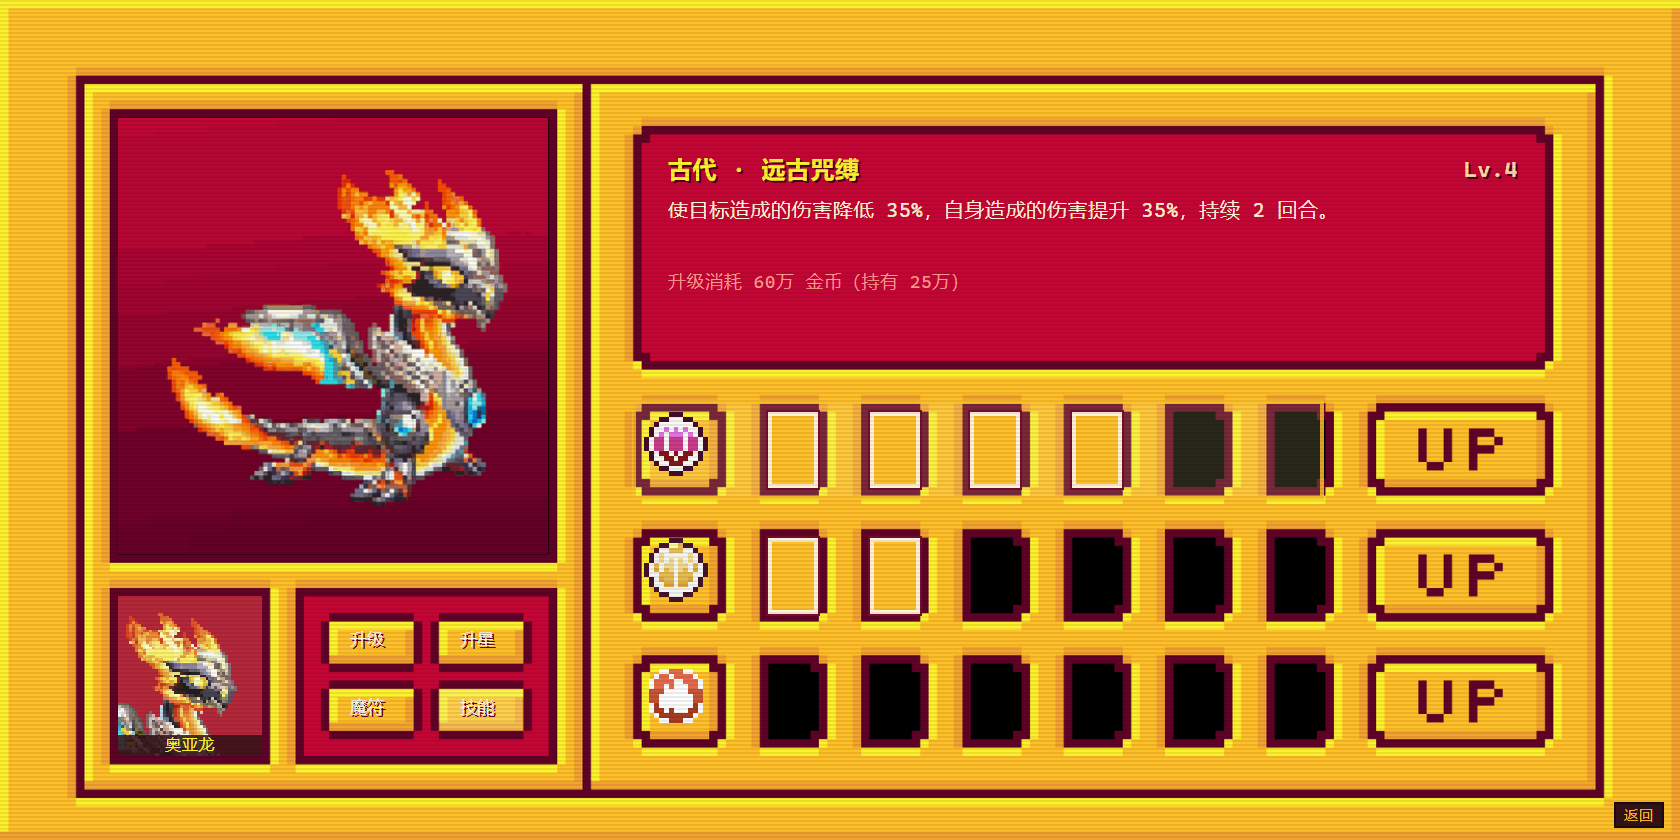
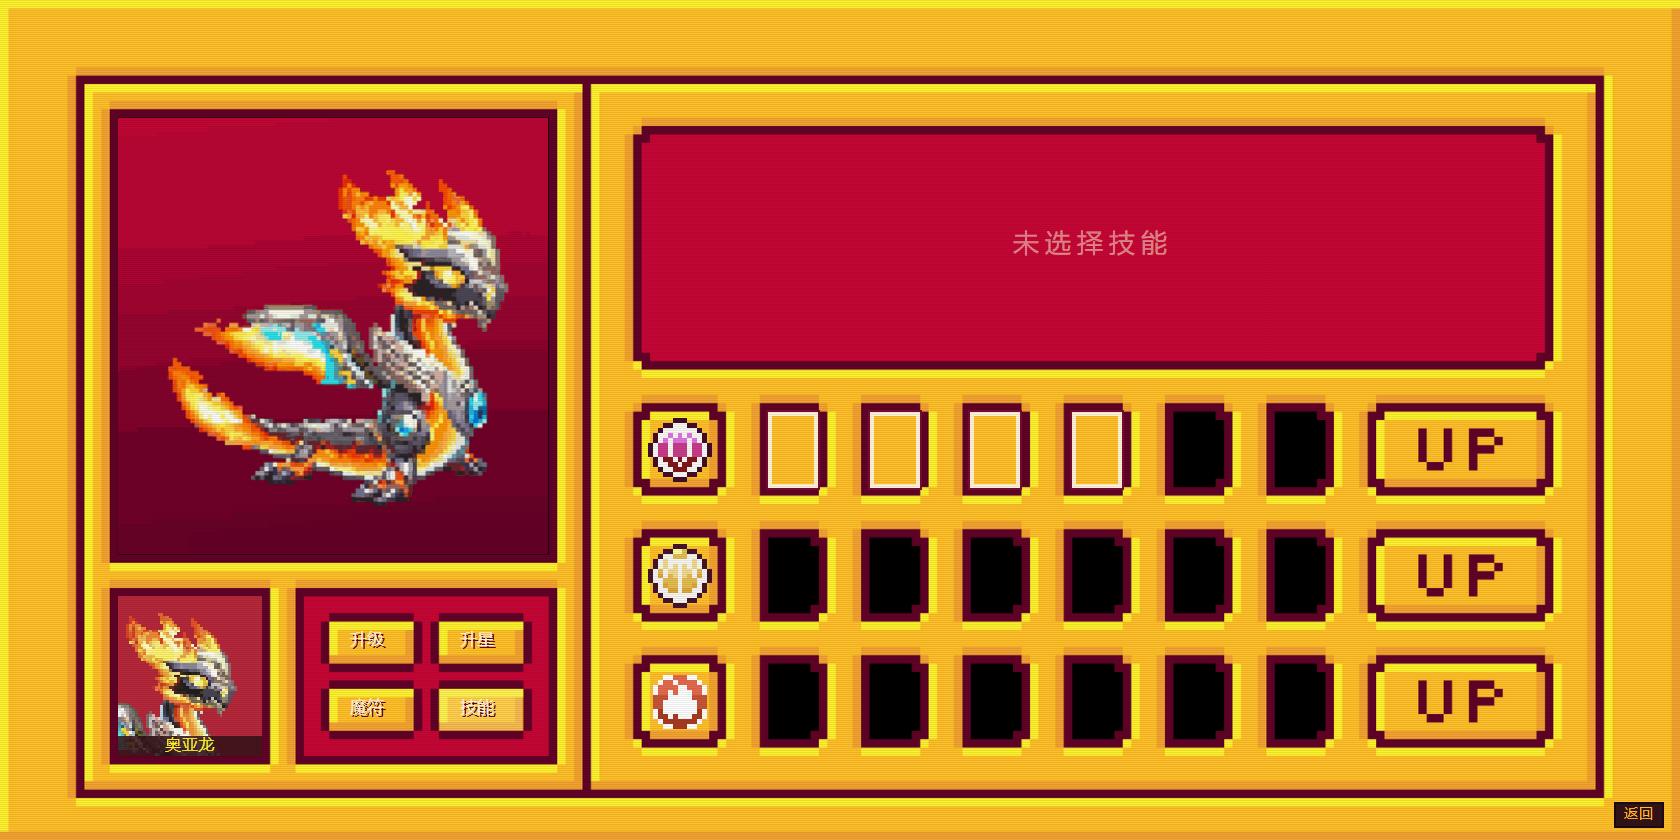
fix(skill): 去掉选中行的黄框，元素图标严格居中；补回 .gitignore/.gitattributes
- .sk-row.on 只保留提亮底色，去掉 2px 黄色描边
- 图标按底图图标框内芯实测居中：设计中心 (339.73, 224.63)，实测偏差 (-0.23, -0.13)
- 仓库根补回 .gitignore / .gitattributes（此前被 API 推送的树弄丢，导致 dist/、视频素材一度被误加入）

diff --git a/src/ui/skill.js b/src/ui/skill.js
@@ -27,9 +27,12 @@ const SkillUp = (function () {
   /* 每行六个等级格 */
   var CELL_X = [384, 435, 485, 536, 587, 637];
   var CELL_W = 25, CELL_H = 38;
-  /* 元素图标框 */
-  var ICON = { dx: -68, w: 44, h: 40, dy: -4 };
+  /* 元素图标：底图图标框内芯（源图实测）设计坐标
+   *   x 320.80..358.79  y 205.80..243.60，中心 (339.73, 224.63)
+   * 每行往下 63px 重复；32×32 的图标严格居中到内芯中心。 */
   var ICON_IMG = 32;
+  var ICON_LEFT = 323.73;        /* 339.73 - 16 */
+  var ICON_TOP_OFFSET = 2.63;    /* rowY 206 -> 208.63，中心 224.63 */
   /* UP 按钮 */
   var UP = { x: 692, w: 76, h: 29, dy: 4 };
 
@@ -121,7 +124,7 @@ const SkillUp = (function () {
       var on = (selected === elId);
 
       /* 行选择热区（图标 + 六个格子） */
-      var rowLeft = 384 + ICON.dx;
+      var rowLeft = 316;
       var rowW = (CELL_X[CELL_X.length - 1] + CELL_W) - rowLeft;
       html += '<button type="button" class="sk-row' + (on ? ' on' : '') + '" data-el="' + elId + '"' +
               ' style="left:' + rowLeft + 'px;top:' + (y - 6) + 'px;width:' + rowW +
@@ -129,8 +132,8 @@ const SkillUp = (function () {
 
       /* 元素图标 */
       var icon = (typeof ELEMENTS !== 'undefined' && ELEMENTS[elId] && ELEMENTS[elId].iconUrl) || '';
-      html += '<div class="sk-icon" style="left:' + (384 + ICON.dx + (ICON.w - ICON_IMG) / 2) +
-              'px;top:' + (y + ICON.dy + (ICON.h - ICON_IMG) / 2) + 'px;width:' + ICON_IMG +
+      html += '<div class="sk-icon" style="left:' + ICON_LEFT +
+              'px;top:' + (y + ICON_TOP_OFFSET) + 'px;width:' + ICON_IMG +
               'px;height:' + ICON_IMG + 'px;">' +
               (icon ? '<img src="' + icon + '" alt="">' : '') + '</div>';
 

diff --git a/styles/pixel.css b/styles/pixel.css
@@ -1612,7 +1612,6 @@ button { font-family: inherit; }
 .sk-row:hover { background: rgba(255, 241, 160, 0.10); }
 .sk-row.on {
   background: rgba(255, 241, 160, 0.16);
-  box-shadow: inset 0 0 0 2px rgba(255, 191, 41, 0.85);
 }
 
 /* 元素图标 */
